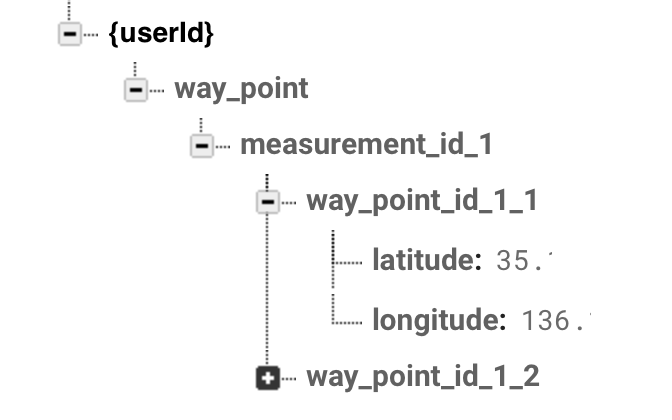
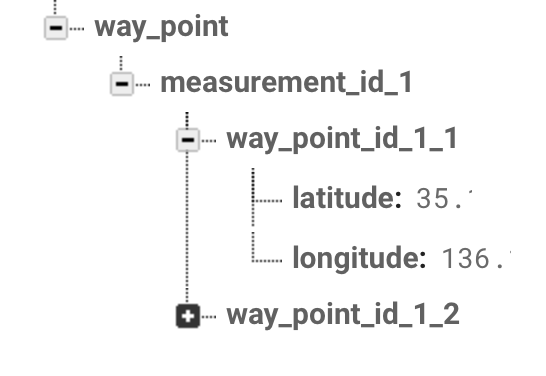
remove UserId

diff --git a/Specifications/interface.md b/Specifications/interface.md
@@ -45,9 +45,8 @@ WayPointをサーバで保存します。
 
 ### 3.2 実装例
 ```
-String userId = FirebaseManager.userId();
 DatabaseReference dbRef = FirebaseDatabase.getInstance().getReference();
-dbRef.child(userId).child("way_point").setValue(data);
+dbRef.child("way_point").setValue(data);
 
 // 例
 // data: 送信項目
